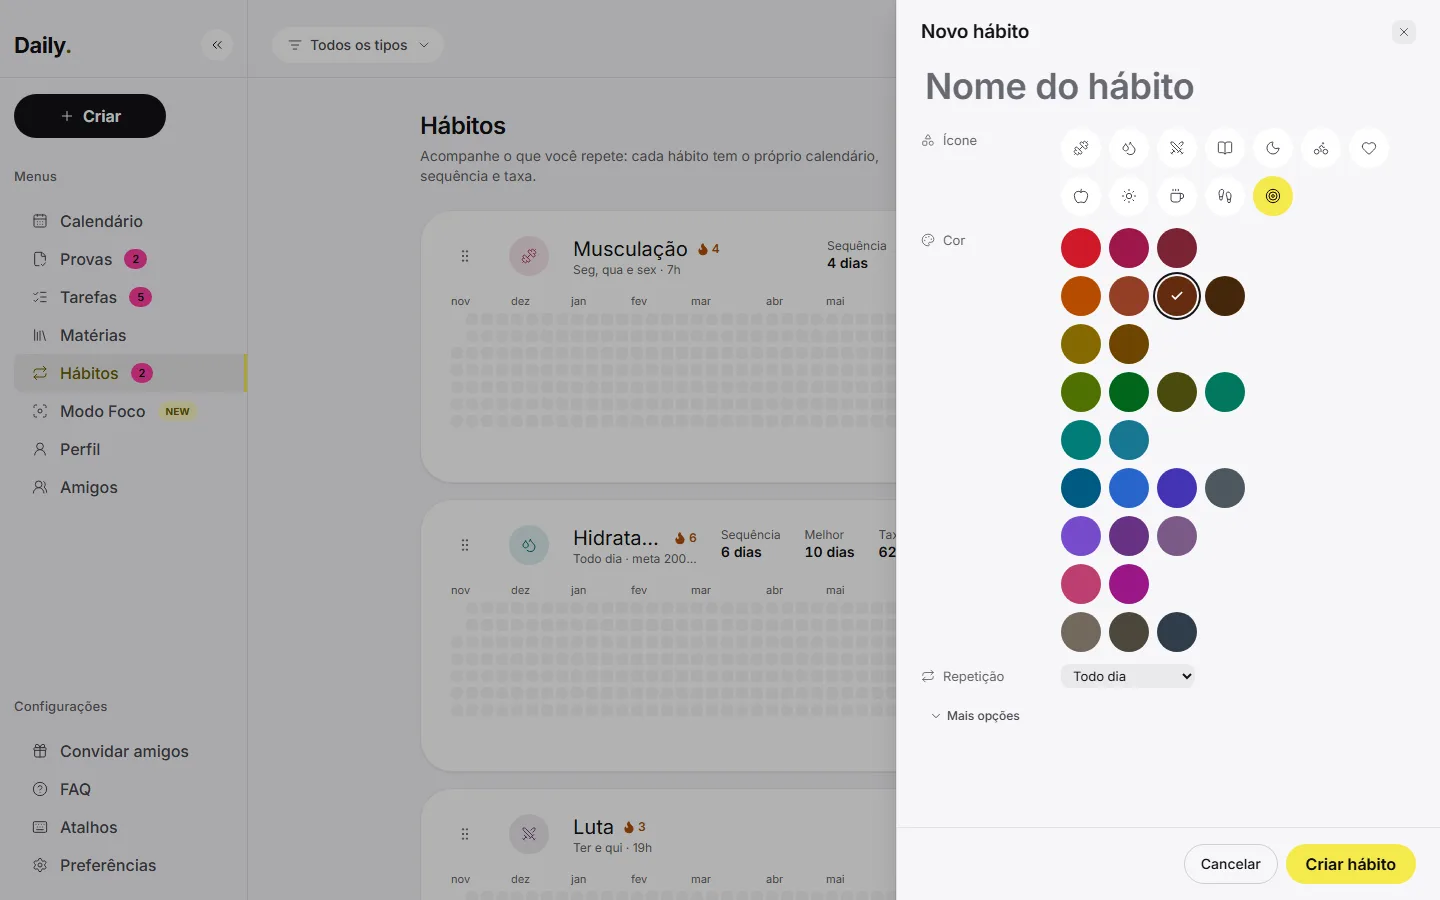
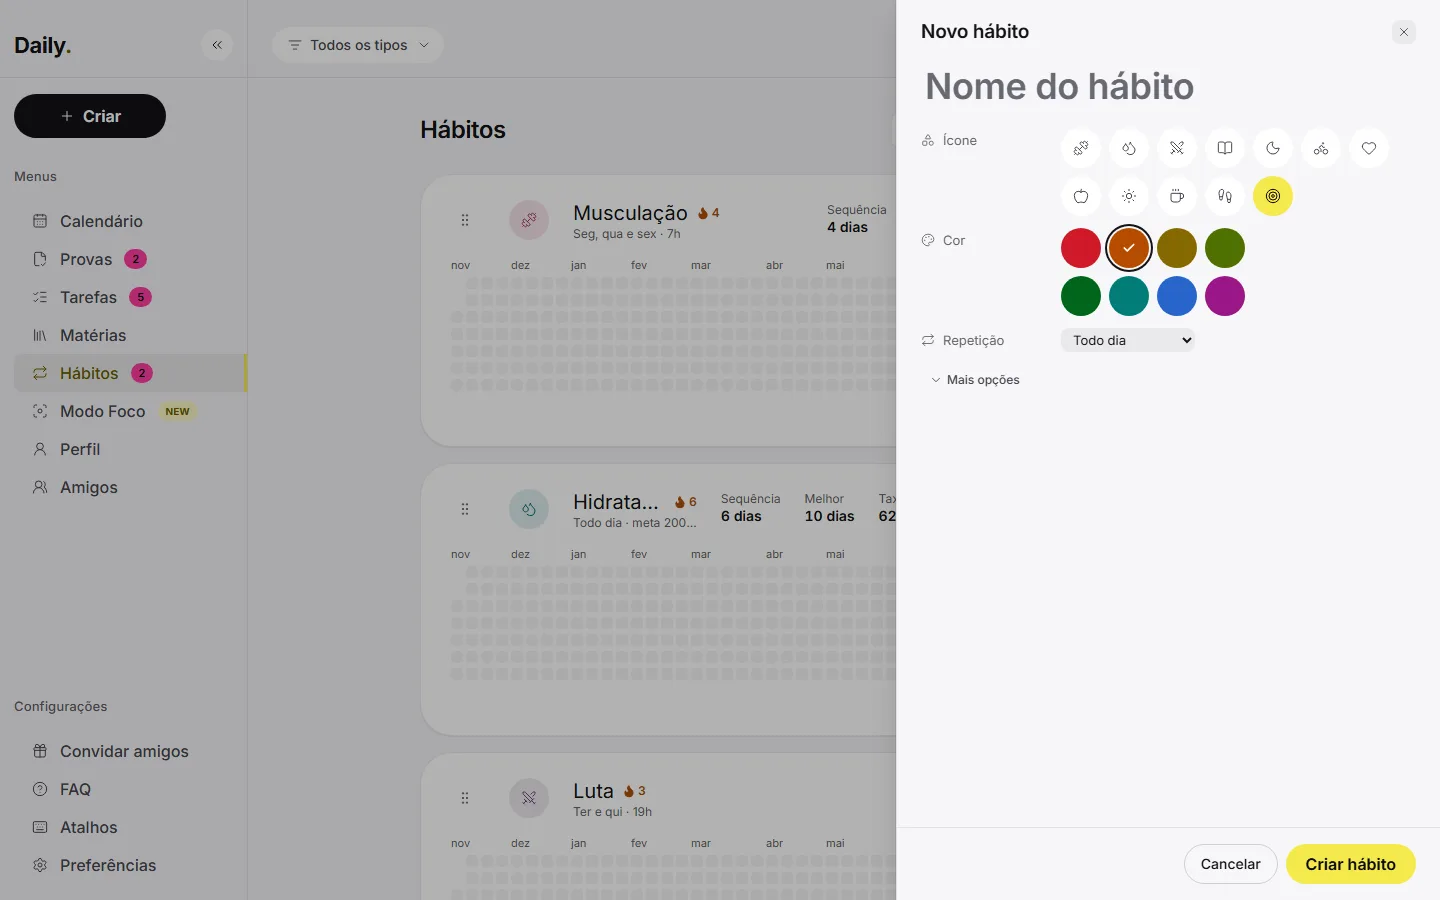
docs: paleta de 8 cores em grade 2 × 4 (design system, CHANGELOG, README, CLAUDE.md e capturas)
Inclui a linha do “agora” na agenda de hoje começando depois das horas: a auditoria
achou “14h” a 2,44:1 sob a linha amarela.

diff --git a/apps/web/src/features/profile/AgendaCard.tsx b/apps/web/src/features/profile/AgendaCard.tsx
@@ -98,7 +98,7 @@ export function AgendaCard({ events, subjects, today, now }: AgendaCardProps) {
             <div
               data-now-line
               aria-hidden
-              className="pointer-events-none absolute inset-x-0 z-10 flex items-center"
+              className="pointer-events-none absolute right-0 left-agenda-label z-10 flex items-center"
               style={{ top: `calc(${nowOffset} * var(--ds-agenda-hour-h))` }}
             >
               <span className="size-dot -translate-x-1/2 rounded-full bg-accent" />

diff --git a/docs/design/design-system.md b/docs/design/design-system.md
@@ -491,54 +491,37 @@ Cada status aparece sempre com ícone e texto (controle de 3 opções no painel)
 
 ### Paleta de matérias e hábitos (`--ds-palette-*`, v5)
 
-**27 cores** para matérias e hábitos (Prompt 13.2), em 9 grupos por matiz, com todos os matizes e três neutros. As 7 da v4 (`ciano` a `cinza`) mantêm id e valor. Cada cor tem um valor no escuro e outro no claro (`:root[data-theme='light']`); a cor guardada é só a chave (`habits.color`, `subjects.color`).
+O seletor oferece **8 cores** (escolha do dono no Prompt 13.2), em **2 linhas × 4 colunas**, por matiz. Cada uma tem um valor no escuro e outro no claro (`:root[data-theme='light']`); a cor guardada é só a chave (`habits.color`, `subjects.color`).
 
-| Id          | Nome          | Escuro    | Menor razão do texto | Claro     | Menor razão do texto |
-| ----------- | ------------- | --------- | -------------------- | --------- | -------------------- |
-| `ciano`     | Ciano         | `#2beeee` | 11,93                | `#007d77` | 4,55                 |
-| `petroleo`  | Azul-petróleo | `#53a9c6` | 6,44                 | `#177692` | 4,73                 |
-| `gelo`      | Gelo          | `#c6dfec` | 12,42                | `#4c575e` | 6,75                 |
-| `lilas`     | Lilás         | `#e2c6ec` | 11,07                | `#7a5a86` | 5,26                 |
-| `fucsia`    | Fúcsia        | `#de2bee` | 4,66                 | `#9a1686` | 6,75                 |
-| `rosa`      | Rosa          | `#d279a6` | 5,75                 | `#bd3f71` | 4,65                 |
-| `cinza`     | Cinza         | `#a3998f` | 6,15                 | `#72685c` | 4,97                 |
-| `vermelho`  | Vermelho      | `#fc4f4e` | 5,21                 | `#cf1928` | 5,00                 |
-| `carmim`    | Carmim        | `#ff85ad` | 7,54                 | `#9d164b` | 7,21                 |
-| `coral`     | Coral         | `#ff9e7e` | 8,55                 | `#933f25` | 6,42                 |
-| `laranja`   | Laranja       | `#f27b00` | 6,23                 | `#b74c00` | 4,72                 |
-| `terracota` | Terracota     | `#b67d64` | 5,00                 | `#642c10` | 9,94                 |
-| `amarelo`   | Amarelo       | `#f4cc00` | 11,04                | `#866900` | 4,74                 |
-| `mostarda`  | Mostarda      | `#c09136` | 6,01                 | `#6d4500` | 7,64                 |
-| `lima`      | Lima          | `#a0d101` | 9,51                 | `#4e7000` | 5,25                 |
-| `verde`     | Verde         | `#00a749` | 5,42                 | `#00651b` | 6,64                 |
-| `oliva`     | Oliva         | `#95975c` | 5,62                 | `#4b4b0d` | 8,27                 |
-| `menta`     | Menta         | `#5ed5b0` | 9,52                 | `#02775d` | 5,03                 |
-| `celeste`   | Celeste       | `#7fc4ec` | 9,02                 | `#005a82` | 6,86                 |
-| `azul`      | Azul          | `#5793f6` | 5,66                 | `#2865cb` | 5,01                 |
-| `anil`      | Anil          | `#7a7ce8` | 4,81                 | `#4334b3` | 8,03                 |
-| `violeta`   | Violeta       | `#ae8cff` | 6,55                 | `#774bcc` | 5,22                 |
-| `roxo`      | Roxo          | `#d5a5f3` | 8,60                 | `#673083` | 8,21                 |
-| `vinho`     | Vinho         | `#af777b` | 4,71                 | `#7a2332` | 9,04                 |
-| `marrom`    | Marrom        | `#d5b092` | 8,56                 | `#44260a` | 11,72                |
-| `pedra`     | Pedra         | `#d2cabc` | 10,58                | `#4c463b` | 8,51                 |
-| `grafite`   | Grafite       | `#7d8d9d` | 5,05                 | `#303d4b` | 9,91                 |
+| Id         | Nome     | Escuro    | Menor razão do texto | Claro     | Menor razão do texto |
+| ---------- | -------- | --------- | -------------------- | --------- | -------------------- |
+| `vermelho` | Vermelho | `#fc4f4e` | 5,21                 | `#cf1928` | 5,00                 |
+| `laranja`  | Laranja  | `#f27b00` | 6,23                 | `#b74c00` | 4,72                 |
+| `amarelo`  | Amarelo  | `#f4cc00` | 11,04                | `#866900` | 4,74                 |
+| `lima`     | Lima     | `#a0d101` | 9,51                 | `#4e7000` | 5,25                 |
+| `verde`    | Verde    | `#00a749` | 5,42                 | `#00651b` | 6,64                 |
+| `ciano`    | Ciano    | `#2beeee` | 11,93                | `#007d77` | 4,55                 |
+| `azul`     | Azul     | `#5793f6` | 5,66                 | `#2865cb` | 5,01                 |
+| `fucsia`   | Fúcsia   | `#de2bee` | 4,66                 | `#9a1686` | 6,75                 |
 
-“Menor razão do texto” é a pior entre: a cor como texto sobre o fundo e a superfície; a marca sobre a cor sólida (texto escuro no escuro, branco no claro); e, no claro, o nome do hábito (cor com 20 % de tinta) sobre o bloco. Ícone sobre o círculo suave (só ícone, 3:1): mínimo de 3,69 no escuro e 4,13 no claro.
+“Menor razão do texto” é a pior entre: a cor como texto sobre o fundo e a superfície; a marca sobre a cor sólida (texto escuro no escuro, branco no claro); e, no claro, o nome do hábito (cor com 20 % de tinta) sobre o bloco. Ícone sobre o círculo suave (só ícone, 3:1): mínimo de 3,86 no escuro e 4,13 no claro.
+
+As cores da paleta da v4 que saíram do seletor (`petroleo`, `gelo`, `lilas`, `rosa`, `cinza`) **continuam como chaves conhecidas**, com os mesmos tokens: hábitos e matérias antigos desenham igual e só não aparecem marcados no seletor (escolher outra cor troca; não escolher mantém).
 
 **Regras (v5):**
 
-- **ΔE2000 ≥ 8** entre todas as cores da paleta, nos dois temas (pares mais próximos: rosa × carmim 9,1 no escuro; ciano × menta 8,3 no claro). As cores de status, tipos, marca e chama **ficam fora da conta**: o significado delas vem sempre de ícone e texto, nunca só da cor. Por isso a paleta pode ter vermelho, verde, amarelo e laranja.
+- **ΔE2000 ≥ 8** entre todas as cores conhecidas, nos dois temas. As cores de status, tipos, marca e chama **ficam fora da conta**: o significado delas vem sempre de ícone e texto, nunca só da cor. Por isso a paleta pode ter vermelho, verde, amarelo e laranja.
 - AA (4,5:1) como texto sobre fundo e superfície; marca sobre a cor sólida ≥ 4,5:1; nome do hábito sobre o bloco ≥ 4,5:1 no claro (`palette.test.ts`).
-- **Ids estáveis:** nunca renomeie nem reordene `PALETTE_COLORS`; cor nova entra no fim, com token nos dois temas, classes literais (`HABIT_COLOR_CLASS`, `SUBJECT_COLOR_CLASS` e `@utility habit-<cor>`), nome em `PALETTE_NAME` e lugar em `PALETTE_GROUPS`.
+- **Ids estáveis:** nunca renomeie nem reordene `PALETTE_COLORS`; cor nova entra no fim, com token nos dois temas, classes literais (`HABIT_COLOR_CLASS`, `SUBJECT_COLOR_CLASS` e `@utility habit-<cor>`), nome em `PALETTE_NAME` e, se for oferecida, em `PICKER_COLORS` (`lib/palette.ts`).
 - **Cor desconhecida** (de uma versão mais nova): o esquema aceita qualquer chave bem formada, o app desenha com a cor segura (`cinza`, `resolvePaletteColor`) e mantém o valor guardado ao salvar.
 
-**Seletor** (`components/ui/ColorPicker`, usado em hábitos e matérias): uma linha por grupo, swatch de 36 px (44 px no toque), a cor escolhida com anel `ring-fg` e check (`text-on-habit`); nome em pt-BR no `aria-label` e na dica. Teclado: Tab entra pela cor marcada e sai; ← → andam uma cor; ↑ ↓ trocam de grupo; Home e End; Enter e Espaço escolhem.
+**Seletor** (`components/ui/ColorPicker`, usado em hábitos e matérias): grade de 4 colunas, swatch de 36 px (44 px no toque), a cor escolhida com anel `ring-fg` e check (`text-on-habit`); nome em pt-BR no `aria-label` e na dica. Teclado: Tab entra pela cor marcada e sai; ← → andam uma cor; ↑ ↓ uma linha; Home e End; Enter e Espaço escolhem. Matéria nova sugere a cor em rodízio entre as 8.
 
 | Escuro                                             | Claro                                            | Celular                                              |
 | -------------------------------------------------- | ------------------------------------------------ | ---------------------------------------------------- |
 | ![Seletor no escuro](../images/paleta-escuro.webp) | ![Seletor no claro](../images/paleta-claro.webp) | ![Seletor no celular](../images/celular-paleta.webp) |
 
-**Verificação:** `node apps/web/scripts/palette-check.mjs`, `src/styles/palette.test.ts` e a auditoria `node apps/web/scripts/contrast-audit.mjs <rótulo> --palette --all --theme=dark|light` (semeia um hábito e uma matéria por cor).
+**Verificação:** `node apps/web/scripts/palette-check.mjs`, `src/styles/palette.test.ts` e a auditoria `node apps/web/scripts/contrast-audit.mjs <rótulo> --palette --all --theme=dark|light` (semeia um hábito e uma matéria por cor conhecida).
 
 Remapeamento v3 → v4 (migração, congelado em `PALETTE_V4`): vermelho → fúcsia, laranja → cinza, amarelo → ciano, verde → gelo, turquesa → ciano, azul → petróleo, violeta → lilás, rosa → rosa; se a cor já foi usada por outro item e ainda há cor livre, usa a primeira livre.
 

diff --git a/CLAUDE.md b/CLAUDE.md
@@ -70,7 +70,7 @@ listada no `.gitignore`, porque é material de processo e de divulgação, não 
 - Hábitos: lógica pura em `lib/habits` (`repeat.ts` = repetição reaproveitável, `engine.ts`, `matrix.ts`, `aggregate.ts`, `edit.ts`, `form.ts`); fontes automáticas leem água e foco via `HabitContext`; dias de descanso (`restDays`) contam como não agendados. Editar repetição/meta/horário cria uma **regra nova a partir de hoje** (nunca reescreva o passado). As classes `habit-<cor>` precisam aparecer **literalmente** no código (`HABIT_COLOR_CLASS`).
 - Calendário: a visão e a data vivem na URL (`?visao=dia|semana|mes|ano&data=yyyy-MM-dd`, `features/calendar/lib/views.ts`); a grade de horas (`TimeGrid`) posiciona blocos por **porcentagem** do intervalo, e o layout de simultâneos é a função pura `layoutSobreposicoes` (`lib/time-layout.ts`). Nunca monte classes do Tailwind por template: use mapas literais (`HABIT_COLOR_CLASS`, `DENSITY_CLASS`) ou variáveis CSS de tokens.
 - Responsivo: breakpoints num só lugar (`lib/responsive/breakpoints.ts`, espelhado em `styles/index.css`, com teste). Use as variantes `phone:`, `short:` e `coarse:` (e `md:`/`lg:`/`xl:`); JavaScript (`useBreakpoint`, `usePhone`) só quando a árvore muda. O desktop (≥ 1280 px) não pode mudar: confira com `node apps/web/scripts/desktop-regression.mjs compare` (a linha de base fica em `apps/web/.reports/`, fora do Git). Mudou o visual de propósito? Depois do último ajuste, regenere com `desktop-regression.mjs capture`, `theme-regression.mjs capture dark` e `capture light`, e rode o `compare` em seguida (tem de dar 0 diferenças). Nada depende de hover; controles principais ≥ 44 px (`--ds-touch`), densos ≥ 24 px com `data-touch="dense"` e um equivalente maior; áreas que rolam na horizontal levam `data-scroll-x`; campos de texto ≥ 16 px. Popover, Modal e Menu já viram sheet/tela cheia no celular: use-os em vez de criar overlays novos.
-- Paleta de matérias e hábitos (v5): `PALETTE_COLORS` com 27 cores (ids estáveis; cor nova só no fim, com token nos dois temas, classes literais, `PALETTE_NAME` e `PALETTE_GROUPS` em `lib/palette.ts`); escolha sempre pelo `components/ui/ColorPicker`. A cor guardada é a chave; chave desconhecida desenha como `cinza` (`resolvePaletteColor`) e não se perde ao salvar. Confira com `node apps/web/scripts/palette-check.mjs`, `src/styles/palette.test.ts` (ΔE ≥ 8 entre as cores da paleta nos dois temas) e `contrast-audit.mjs --palette`.
+- Paleta de matérias e hábitos (v5): o seletor (`components/ui/ColorPicker`) oferece as 8 cores de `PICKER_COLORS` (`lib/palette.ts`) em 2 × 4; `PALETTE_COLORS` guarda todas as chaves conhecidas (as 7 da v4 continuam valendo para dados antigos). Ids estáveis: cor nova só no fim, com token nos dois temas, classes literais e `PALETTE_NAME`. Chave desconhecida desenha como `cinza` (`resolvePaletteColor`) e não se perde ao salvar. Confira com `node apps/web/scripts/palette-check.mjs`, `src/styles/palette.test.ts` (ΔE ≥ 8 nos dois temas) e `contrast-audit.mjs --palette`.
 - Tema: lógica pura em `lib/theme` (`theme.ts` = escolha `sistema | claro | escuro` em `daily:theme`, por dispositivo e fora do snapshot e da sincronização; `apply.ts`; `theme-store.ts`). `public/theme-init.js` repete a resolução antes da 1ª pintura (a CSP não permite script inline) e o teste `theme.test.ts` o roda num contexto isolado: mude os dois juntos. Usuário com dados começa no Escuro; instalação nova, em Sistema. Os e2e rodam com `colorScheme: 'dark'`.
 - Perfil social: só no Supabase (nunca no `daily:v6` nem na sync). Segurança no banco: migrações em `supabase/migrations` (só arquivos; quem aplica em produção é o dono, por `docs/social-setup.md`), sempre aditivas, com reversão em `supabase/rollback` e testes pgTAP em `supabase/tests` (job `db` do CI num Supabase local; nunca contra a produção). Regras do @ e da idade iguais em `packages/shared/src/social.ts` e no SQL (um teste compara os reservados). Cliente em `lib/social`: nenhuma requisição social até alguém abrir a seção; erros em pt-BR; tabela ausente = “indisponível”. Os e2e do social usam o projeto Playwright `social` com o Supabase simulado (`e2e/social/fake-supabase.ts`). Nunca a chave `service_role` no front.
 - Amizades: tudo por funções `social_*` (o cliente nunca toca `friend_requests`, `friendships`, `blocks`, `reports`); respostas sem vazamento (existência, idade, bloqueio e recusa = `nao_encontrado` ou `ok`). Dados de outras pessoas só em memória (`useFriends`, `lib/social/friends-store.ts`), limpos em `resetFriends()` ao sair. Máquina de estados pura em `friends-state.ts`; contador em `friend-counter.ts` (60 s, só aba visível e perfil ativo). Moderação por SQL: `docs/moderation.md`.

diff --git a/CHANGELOG.md b/CHANGELOG.md
@@ -6,14 +6,14 @@ Formato baseado em [Keep a Changelog](https://keepachangelog.com/pt-BR/1.1.0/). 
 
 ### Adicionado (paleta completa)
 
-- **27 cores para hábitos e matérias**, em 9 grupos (vermelhos, laranjas e terrosos, amarelos, verdes, azul-esverdeados, azuis, roxos, rosas e neutros), com valores próprios no escuro e no claro e contraste AA em todos os usos. As 7 cores anteriores continuam iguais.
-- **Seletor de cor único** (`ColorPicker`) em hábitos e matérias: anel e check na cor escolhida, nome em pt-BR, setas, Home/End, Enter e Espaço, alvos de 44 px no toque, sem rolagem horizontal no celular.
+- **Novas cores para hábitos e matérias:** o seletor oferece 8 (vermelho, laranja, amarelo, lima, verde, ciano, azul e fúcsia), em 2 linhas × 4 colunas, com valores próprios no escuro e no claro e contraste AA em todos os usos. Hábitos e matérias com as cores antigas continuam iguais.
+- **Seletor de cor único** (`ColorPicker`) em hábitos e matérias: anel e check na cor escolhida, nome em pt-BR, setas (↑ ↓ andam uma linha), Home/End, Enter e Espaço, alvos de 44 px no toque.
 
 ### Alterado
 
-- A paleta passa a ter todos os matizes: a regra “sem vermelho, verde, amarelo e laranja” sai, porque status e tipos sempre têm ícone e texto. Distância mínima entre cores da paleta: ΔE2000 ≥ 8 nos dois temas.
+- A paleta pode ter vermelho, verde, amarelo e laranja (status e tipos sempre têm ícone e texto). Distância mínima entre cores da paleta: ΔE2000 ≥ 8 nos dois temas.
 - Cor desconhecida (de uma versão mais nova) abre sem erro, aparece como Cinza e é mantida ao salvar.
-- A chama de sequência zerada usa `fg-muted` (o `fg-subtle` ficava abaixo de AA nos cartões), e em Hábitos de hoje a chama ganha uma pílula escura.
+- A chama de sequência zerada usa `fg-muted` (o `fg-subtle` ficava abaixo de AA nos cartões), e em Hábitos de hoje a chama ganha uma pílula escura. A linha do “agora” na agenda de hoje começa depois das horas (passava por cima de “14h”).
 
 ### Alterado (minimalismo das páginas)
 

diff --git a/README.md b/README.md
@@ -86,7 +86,7 @@ A versão **1.0** está publicada em [https://dailystudyplanner.vercel.app](http
 - [x] **Modo Foco** (`/foco`): anel minimalista com tempo editável por digitação (1 min a 3 h), histórico de sessões e **travamento do app** (veja abaixo)
 - [x] Preferências do perfil: nome, meta de água, copo, duração padrão do foco e "travar por padrão"
 - [x] Várias abas/janelas ficam sincronizadas (evento `storage`)
-- [x] **Hábitos recorrentes** (`/habitos`): dias da semana ou a cada N dias, horário opcional, tipo check ou quantidade, fontes automáticas (água, foco, blocos de estudo), **27 cores** (as mesmas das matérias, com um seletor por matiz), **calendário de contribuições** por hábito (estilo GitHub), sequência, melhor sequência e taxa; **dias de descanso** (inclusive na água) que não quebram a sequência; as antigas metas migram para hábitos; **reordene arrastando pela alça** (mouse, toque ou teclado) ou pelo menu "..."
+- [x] **Hábitos recorrentes** (`/habitos`): dias da semana ou a cada N dias, horário opcional, tipo check ou quantidade, fontes automáticas (água, foco, blocos de estudo), **8 cores** (as mesmas das matérias, num seletor 2 × 4), **calendário de contribuições** por hábito (estilo GitHub), sequência, melhor sequência e taxa; **dias de descanso** (inclusive na água) que não quebram a sequência; as antigas metas migram para hábitos; **reordene arrastando pela alça** (mouse, toque ou teclado) ou pelo menu "..."
 - [x] **Água editável**: toque no valor da água (cartão e hábito) para editar, excluir (com Desfazer), definir o total do dia ou digitar uma quantidade (`300 ml`, `0,3 l`); dias anteriores pelo heatmap do hábito (até 366 dias)
 - [x] **Estatísticas** (`/estatisticas`): painel “Hoje” (horas da semana, preparação para a próxima prova, sequência, água, hábitos de hoje e agenda) e “Análises” (semana, mês ou 90 dias) com cinco gráficos em SVG próprio e o heatmap de consistência dos hábitos
 
